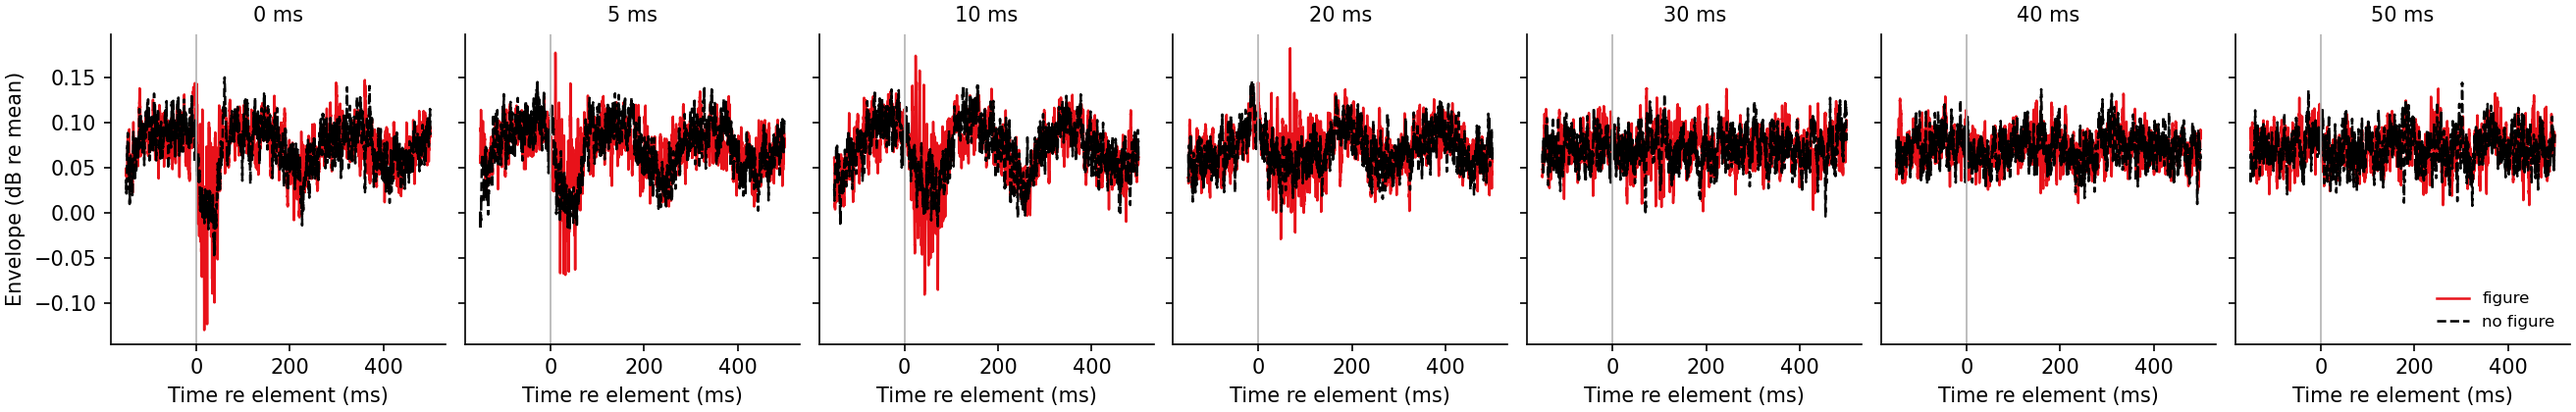
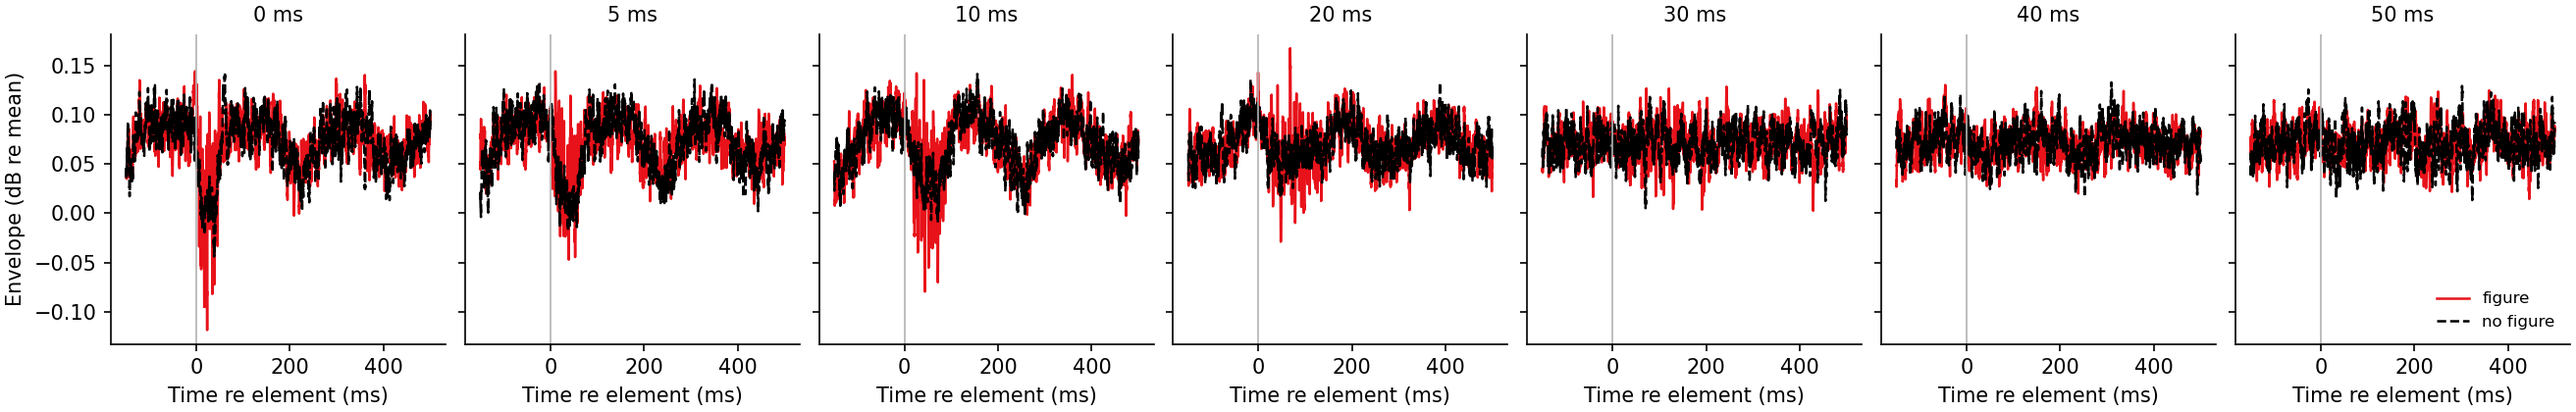
audios/sfg_task: measure what an observer who ignores time could do
Take the long-term spectrum of each interval, measure how far its loudest
channels stand above their neighbours, pick the taller: d' 12 to 18 at every
delay, which is 100% correct in 2IFC.  The task can be done perfectly
without hearing a figure at all.  The same measurement on the earlier 2 Hz
version gives 9.4, also 100%, so this was never not true; a figure defined
by channel recurrence has a spectral signature as well as a temporal one and
they do not separate inside one interval.

It is now a row in the battery, so it cannot go unnoticed again, and the
README says plainly what it does and does not permit us to claim.

The `scatter` control, which is what bounds it, did not work.  Its branch
ignored `coherent`, so both intervals of a scatter trial were built the same
way and the condition was at chance by construction.  Now the present side
carries the figure's channels at the figure's rate without grouping and the
absent side spreads the same number of tones over channels drawn afresh --
spectrum-only d' 18.9 on the present side, matched tone counts, so running
it measures directly how much of the sweep is spectral.

diff --git a/audios/sfg_task/verify.py b/audios/sfg_task/verify.py
@@ -45,7 +45,7 @@ def verify(d: Design, step_ms: float, n: int = 12, variant: str = "rise",
     acc: dict[str, list] = {k: [[], []] for k in
                             ("tones", "snd_lo", "snd_hi", "rms", "fig", "bg",
                              "epoch", "band", "elem_cv", "repeat", "beat",
-                             "flat", "low", "fmax", "duty")}
+                             "flat", "low", "fmax", "duty", "prom")}
     for i in range(n):
         for j, sch in enumerate(trial(d, pl, step_ms=step_ms, seed=9000 + i,
                                       variant=variant, rove=False)):
@@ -64,6 +64,13 @@ def verify(d: Design, step_ms: float, n: int = 12, variant: str = "rise",
                     ep.append(e[c0 + a0:c0 + a1])
 
             f, p = welch(y, fs, nperseg=8192)
+            # how far the loudest channels stand above their neighbours: the
+            # statistic an observer who ignores time entirely would use
+            lv = np.array([10 * np.log10(p[(f > c * .985) & (f < c * 1.015)].sum()
+                                         + 1e-30) for c in pl["f"]])
+            acc["prom"][j].append(np.sort(
+                [lv[i] - np.median(lv[np.abs(pl["erb"] - pl["erb"][i]) < 3])
+                 for i in range(pl["n"])])[-d.coherence:].mean())
             ch = sch["chan"][sch["is_fig"]]
             el = ch.reshape(-1, d.coherence) if variant != "scatter" else None
             rep = 0 if el is None else max(
@@ -120,6 +127,10 @@ def verify(d: Design, step_ms: float, n: int = 12, variant: str = "rise",
     # Half of the figure-present epochs against the other half: what the
     # same measurement returns when there is nothing to find.  The
     # between-condition difference means nothing on its own.
+    pr = [np.asarray(acc["prom"][0]), np.asarray(acc["prom"][1])]
+    spec_d = float((pr[0].mean() - pr[1].mean())
+                   / np.sqrt((pr[0].var(ddof=1) + pr[1].var(ddof=1)) / 2 + 1e-12))
+
     h = len(acc["epoch"][0]) // 2
     floor = np.abs(20 * np.log10(np.mean(acc["epoch"][0][:h], axis=0))
                    - 20 * np.log10(np.mean(acc["epoch"][0][h:], axis=0))).max()
@@ -142,6 +153,8 @@ def verify(d: Design, step_ms: float, n: int = 12, variant: str = "rise",
         beating=(m["beat"][0], m["beat"][1]),
         fig_sounding=(m["fmax"][0], m["fmax"][1]),
         fig_duty=(m["duty"][0], m["duty"][1]),
+        prominence=(pr[0].mean(), pr[1].mean()),
+        spectrum_only_d=spec_d,
         flat_db=(m["flat"][0], m["flat"][1]),
         low_pct=(m["low"][0], m["low"][1]),
         shared_channels=(m["repeat"][0], m["repeat"][1]),
@@ -158,6 +171,7 @@ ROWS = [
     ("contrast", "contrast", "{:.2f}"),
     ("element loudness peak, dB", "elem_peak_db", "{:.2f}"),
     ("element power spread, CV", "elem_gain_cv", "{:.4f}"),
+    ("spectral prominence, dB", "prominence", "{:.2f}"),
     ("figure tones at once, most", "fig_sounding", "{:.1f}"),
     ("figure sounding, % of time", "fig_duty", "{:.0f}"),
     ("beating pairs (< 1 ERB)", "beating", "{:.0f}"),
@@ -170,6 +184,7 @@ DIFFS = [
     ("|present - absent| envelope, dB", "d_elem_peak_db"),
     ("|present - absent| 1/3-oct, dB", "d_band_db"),
     ("  same measure, present only", "noise_floor_db"),
+    ("SPECTRUM-ONLY d', ignoring time", "spectrum_only_d"),
 ]
 
 

diff --git a/audios/sfg_task/stimulus.py b/audios/sfg_task/stimulus.py
@@ -172,12 +172,17 @@ def schedule(d: Design, pl: dict, rng: np.random.Generator, *,
         busy[pl["near"][c], s:s + d.k] = True
 
     if variant == "scatter":
-        # The same channels at the same rate, never grouped into elements.
-        # Long-term spectrum identical to the figure's; no temporal
-        # coherence at all.
+        # The figure's channels at the figure's rate, never grouped into
+        # elements: the long-term spectrum of the figure with none of its
+        # temporal coherence.  The absent side spreads the same number of
+        # tones over channels drawn afresh, so the two differ in whether
+        # seven channels recur at all -- which is what makes this the
+        # control for how much of the task is spectral.
         combs = [comb(d, pl, rng)]
-        for c, ts in zip(combs[0], scatter_onsets(d, rng)):
+        for i, ts in enumerate(scatter_onsets(d, rng)):
             for s in ts:
+                c = int(combs[0][i]) if coherent else \
+                    int(comb(d, pl, rng)[int(rng.integers(d.coherence))])
                 put(c, s, 0)
     else:
         # Overlapping elements can collide: two of them can want the same

diff --git a/audios/sfg_task/README.md b/audios/sfg_task/README.md
@@ -292,12 +292,29 @@ sessions halve that. Decide which you need before running twenty people once.
   alternative is to cap the sweep at 25 ms, which is what a non-overlapping 5 Hz figure
   allows. `perm` and `scatter` are what bound the alternative explanations, and this is
   the first limitation a referee will find.
-* **The long-term spectrum carries more of the answer than it used to.** At 6.3x
-  contrast the seven figure channels stand up to 0.8 dB above the figure-absent interval
-  in a third-octave band, against a measurement noise floor of 0.2 dB. A listener could
-  in principle use that rather than temporal coherence. `scatter`, which has the
-  identical long-term spectrum and no temporal coherence at all, is the control that
-  separates them, and it matters more at this contrast than it did at 2.4x.
+* **An observer who ignores time entirely can do this task perfectly.** This is the
+  most serious thing on the page. Take the long-term spectrum of each interval, measure
+  how far its loudest channels stand above their neighbours, and pick the interval with
+  the taller peaks: measured over many trials, that gives **d' between 12 and 18**,
+  which is 100% correct in 2IFC, at every delay. The figure's channels carry 5.3 tones
+  a second against the background's 0.85, and six seconds is long enough to read that
+  off the spectrum without ever hearing a figure.
+
+  It is not new here. The same measurement on the earlier 2 Hz, eight-tone-cloud
+  version gives d' 9.4, also 100%. A figure defined by channel recurrence always has a
+  spectral signature as well as a temporal one, and they cannot be pulled apart inside
+  a single interval.
+
+  What it means in practice: **the task does not by itself prove that anyone used
+  temporal coherence.** Two things bound it. The first is empirical: the only human who
+  has run it sat at chance while this cue was fully available, so people do not
+  spontaneously read it off. The second is the `scatter` control, which puts the
+  figure's channels in the present interval at the figure's rate but never groups them,
+  so it has the spectral cue and no temporal coherence at all. Performance on `scatter`
+  is the direct measure of how much of the sweep is spectral, and it has to be run.
+
+  Trial-by-trial feedback interacts with this: it does not bias 2IFC, but it does teach
+  whatever cue works. Consider turning it off after practice.
 * Contrast is 2.5x, against roughly 10x for chord-grid figure-ground. A 350 ms element
   cannot repeat at 20 Hz, and a slow figure has a low contrast. Detection at 0 ms should
   be good rather than perfect, which is what you want, or the sweep starts at ceiling.
